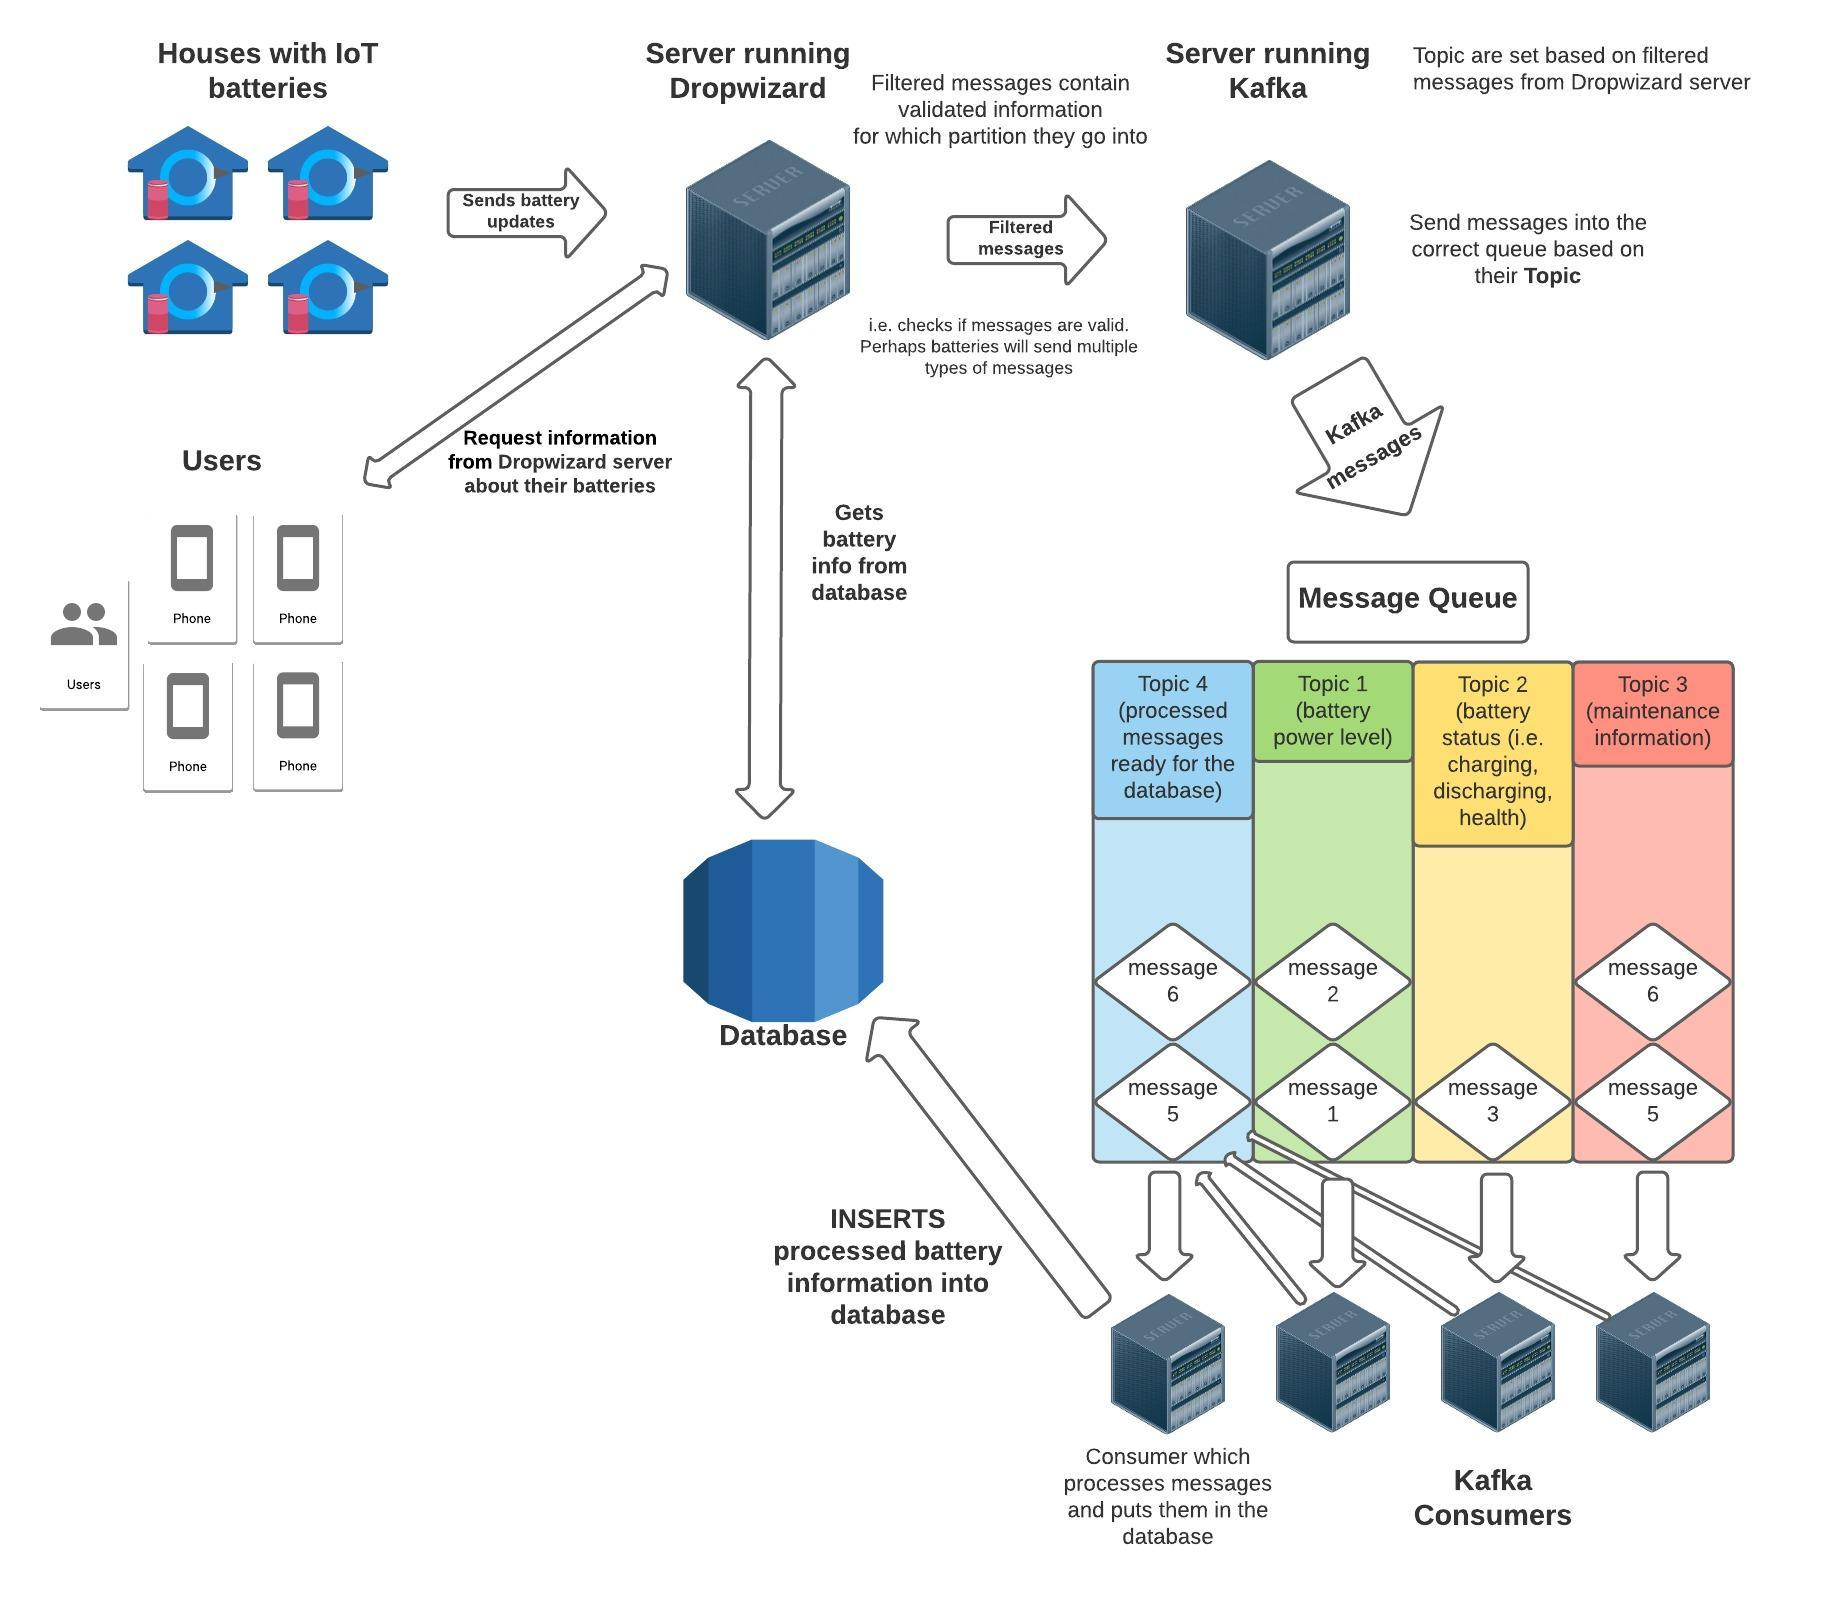
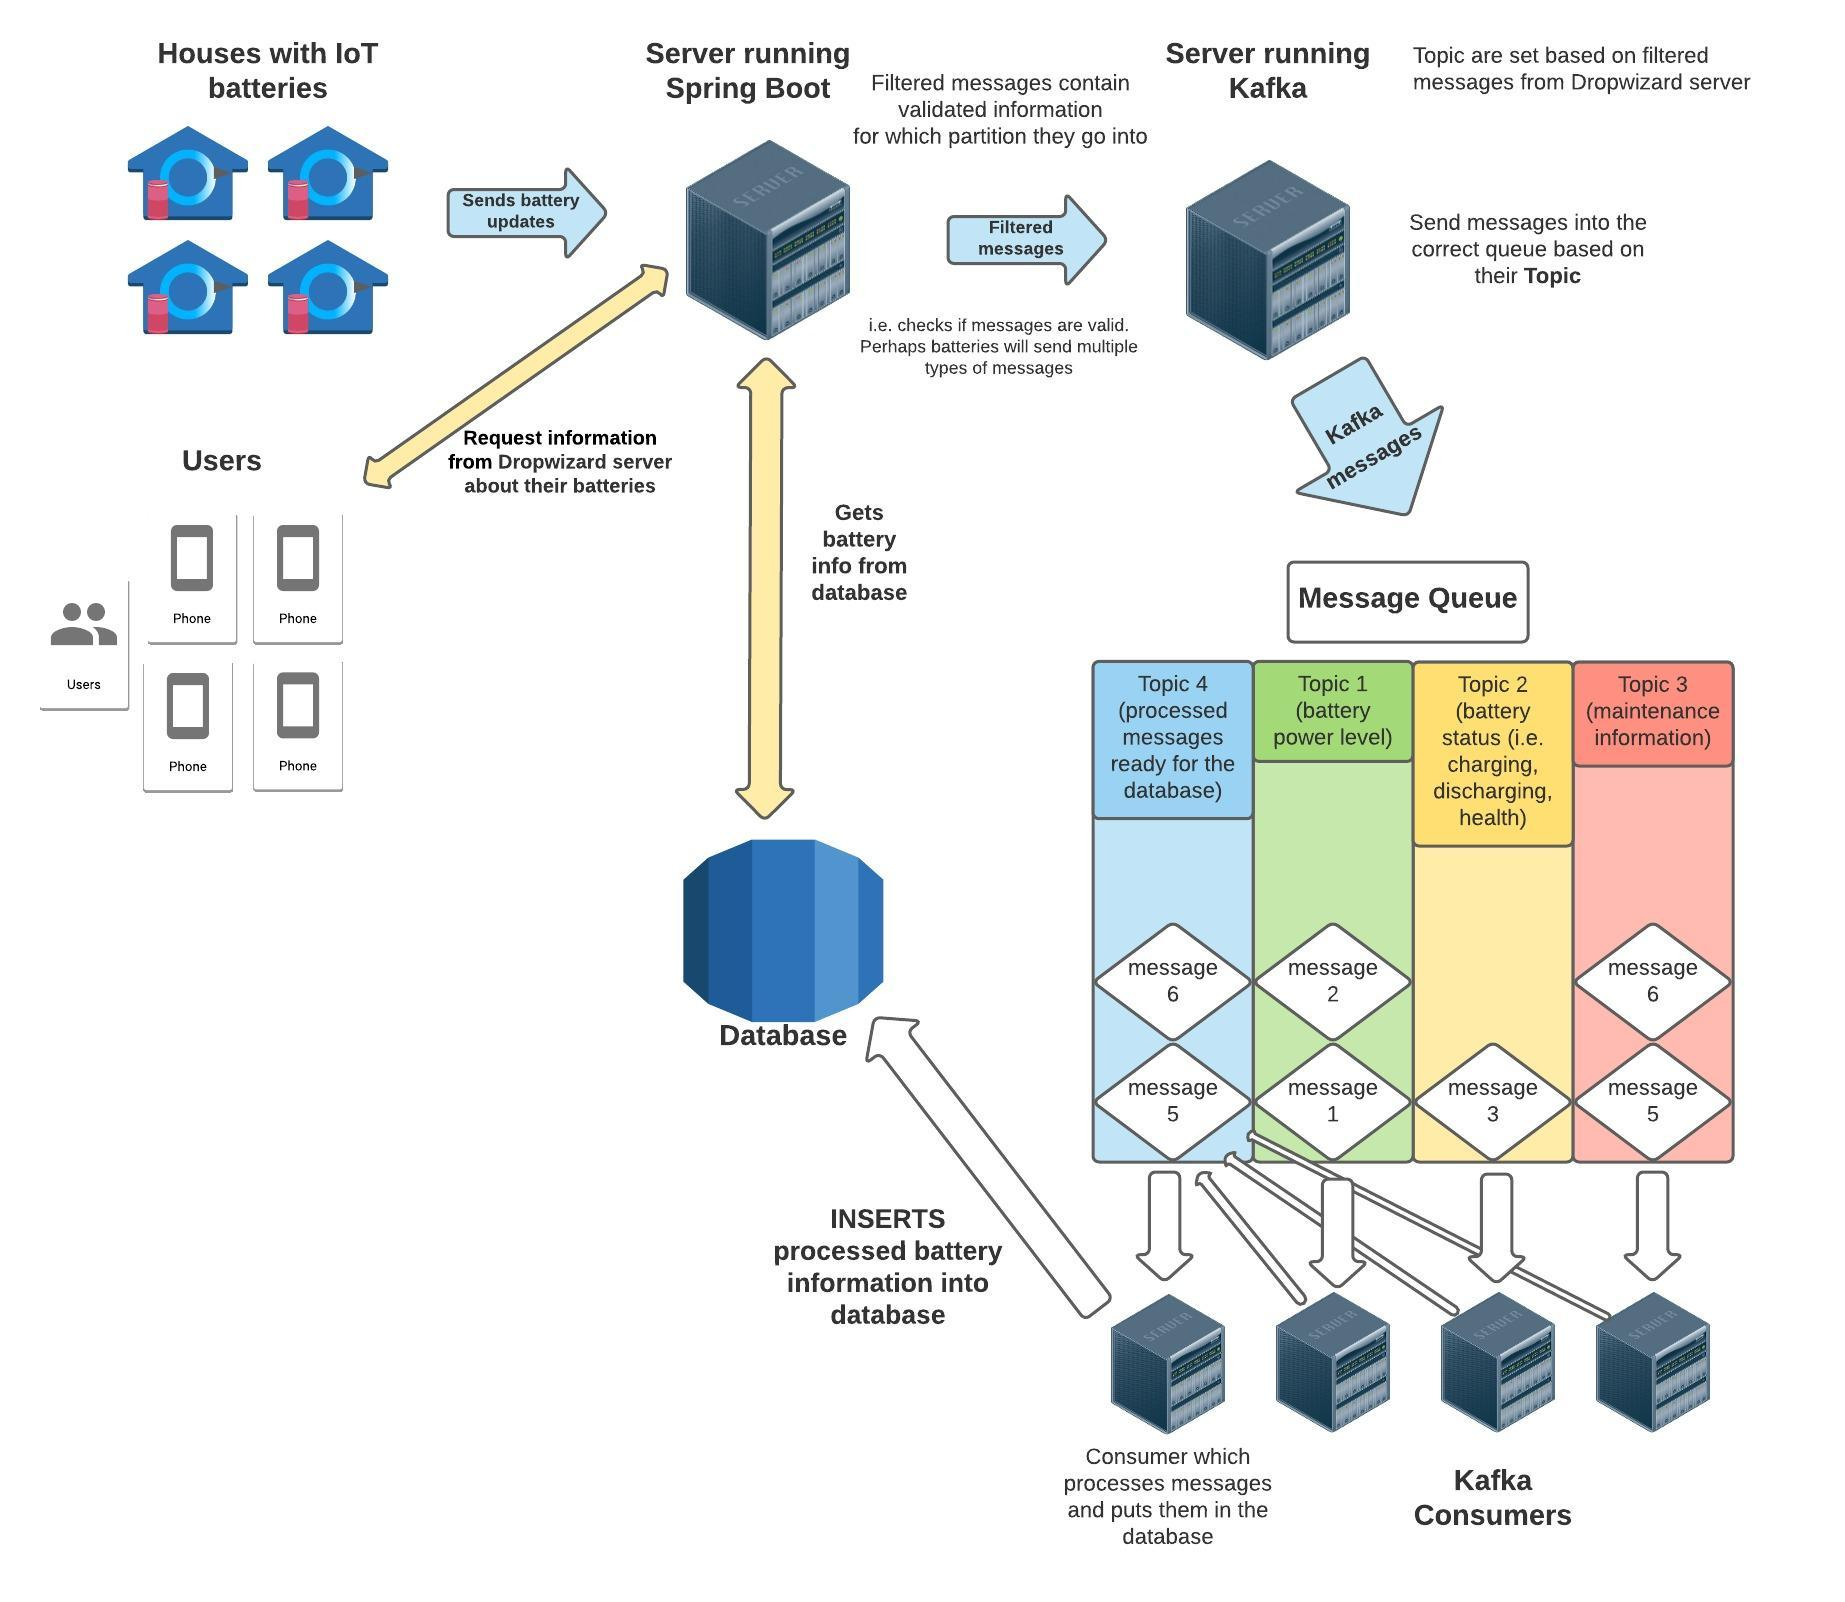
docs: Adds updated system diagram to project README

diff --git a/src/main/java/energy_resources/EnergyResourcesController.java b/src/main/java/energy_resources/EnergyResourcesController.java
@@ -1,13 +1,13 @@
 package energy_resources;
 
 import avro.BatteryEvent;
-import org.springframework.web.bind.annotation.GetMapping;
+import org.springframework.web.bind.annotation.PostMapping;
 import org.springframework.web.bind.annotation.RestController;
 
 @RestController
 public class EnergyResourcesController {
 
-    @GetMapping("/event")
+    @PostMapping("/event")
     public void handleEvent(BatteryEvent batteryEvent) {
         System.out.println(batteryEvent);
     }
